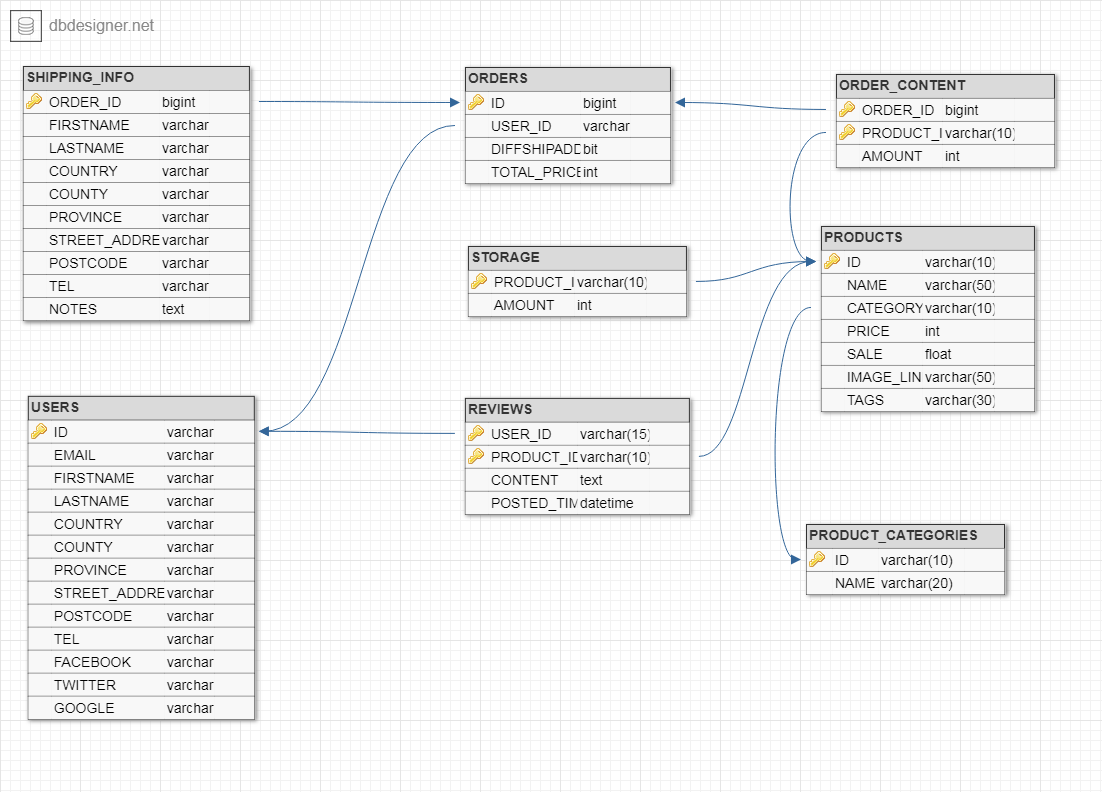
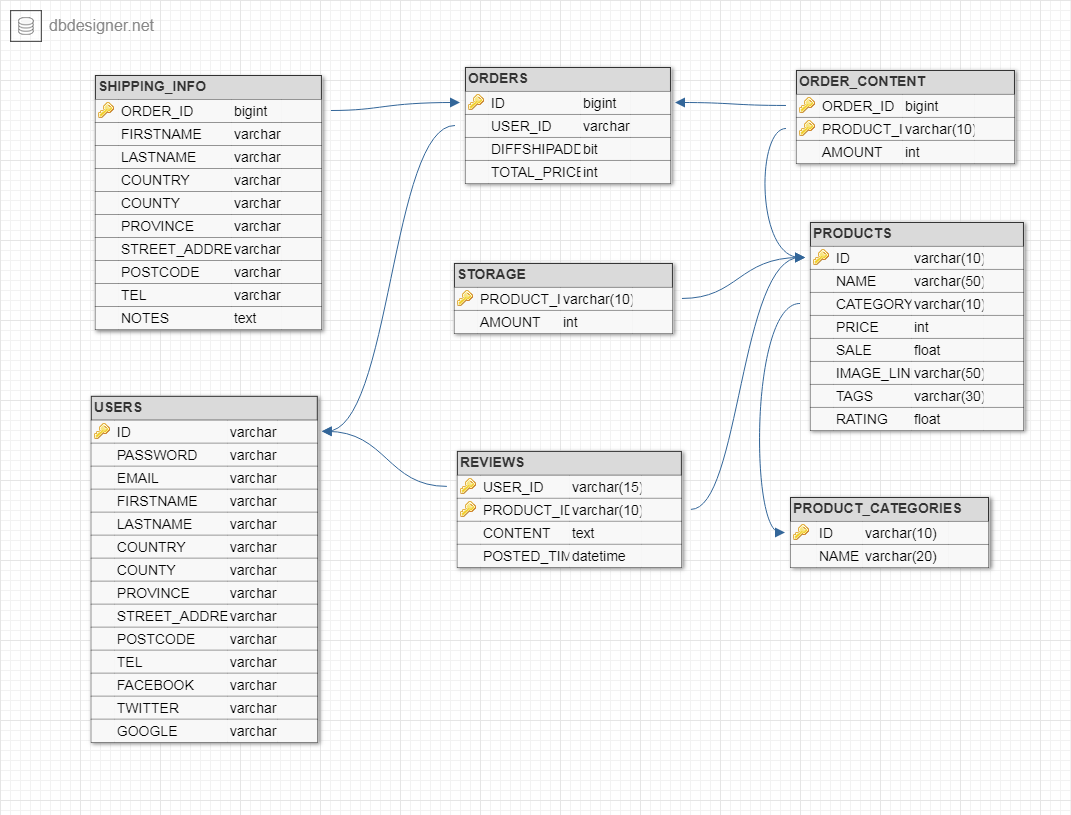
Added Password for Users in DB
Added Password for Users in DB

diff --git a/Database/index.html b/Database/index.html
@@ -1,0 +1,208 @@
+<!DOCTYPE html>
+<html lang="vi">
+
+<head>
+  <meta charset="UTF-8">
+  <meta name="viewport" content="width=device-width, initial-scale=1.0">
+  <meta http-equiv="X-UA-Compatible" content="ie=edge">
+  <title>Oopss!!! Wrong way</title>
+  <style>
+    html,
+    body {
+      height: 100vh;
+    }
+
+    html:before,
+    body:before,
+    html:after,
+    body:after {
+      content: '';
+      background: linear-gradient(#203075, #233581);
+      border-radius: 50%;
+      position: absolute;
+      top: 50%;
+      left: 50%;
+      transform: translate(-50%, -50%);
+    }
+
+    html:before,
+    body:before {
+      background: linear-gradient(#233581, #203075);
+    }
+
+    html {
+      background: linear-gradient(#203075, #233581);
+      overflow: hidden;
+    }
+
+    html:before {
+      height: 105vmax;
+      width: 105vmax;
+      z-index: -4;
+    }
+
+    html:after {
+      height: 80vmax;
+      width: 80vmax;
+      z-index: -3;
+    }
+
+    body {
+      display: flex;
+      justify-content: center;
+      align-items: center;
+      color: #fff;
+      font-family: 'Varela Round', Sans-serif;
+      text-shadow: 0 30px 10px rgba(0, 0, 0, .15);
+    }
+
+    body:before {
+      height: 60vmax;
+      width: 60vmax;
+      z-index: -2;
+    }
+
+    body:after {
+      height: 40vmax;
+      width: 40vmax;
+      z-index: -1;
+    }
+
+    .main {
+      text-align: center;
+      z-index: 5;
+    }
+
+    p {
+      font-size: 18px;
+      margin-top: 0;
+    }
+
+    h1 {
+      font-size: 95px;
+      margin: 0;
+    }
+
+    a {
+      display: block;
+      background: linear-gradient(#ec5dc1, #d61a6f);
+      padding: 12px;
+      border: none;
+      border-radius: 20px;
+      box-shadow: 0 30px 15px rgba(0, 0, 0, .15);
+      outline: none;
+      color: #fff;
+      font: 400 6.4px Nunito, 'Varela Round', Sans-serif;
+      text-transform: uppercase;
+      cursor: pointer;
+      font-size: 15px;
+      font-weight: bold;
+      max-width: 90px;
+      margin: auto;
+      text-decoration: none;
+    }
+
+    .bubble {
+      background: linear-gradient(#ec5dc1, #d61a6f);
+      border-radius: 50%;
+      box-shadow: 0 30px 15px rgba(0, 0, 0, .15);
+      position: absolute;
+    }
+
+    .bubble:before,
+    .bubble:after {
+      content: '';
+      background: linear-gradient(#ec5dc1, #d61a6f);
+      border-radius: 50%;
+      box-shadow: 0 30px 15px rgba(0, 0, 0, .15);
+      position: absolute;
+    }
+
+    .bubble:nth-child(1) {
+      top: 15vh;
+      left: 15vw;
+      height: 22vmin;
+      width: 22vmin;
+    }
+
+    .bubble:nth-child(1):before {
+      width: 13vmin;
+      height: 13vmin;
+      bottom: -25vh;
+      right: -10vmin;
+    }
+
+    .bubble:nth-child(2) {
+      top: 20vh;
+      left: 38vw;
+      height: 10vmin;
+      width: 10vmin;
+    }
+
+    .bubble:nth-child(2):before {
+      width: 5vmin;
+      height: 5vmin;
+      bottom: -10vh;
+      left: -8vmin;
+    }
+
+    .bubble:nth-child(3) {
+      top: 12vh;
+      right: 30vw;
+      height: 13vmin;
+      width: 13vmin;
+    }
+
+    .bubble:nth-child(3):before {
+      width: 3vmin;
+      height: 3vmin;
+      bottom: -15vh;
+      left: -18vmin;
+      z-index: 6;
+    }
+
+    .bubble:nth-child(4) {
+      top: 25vh;
+      right: 18vw;
+      height: 18vmin;
+      width: 18vmin;
+    }
+
+    .bubble:nth-child(4):before {
+      width: 7vmin;
+      height: 7vmin;
+      bottom: -10vmin;
+      left: -15vmin;
+    }
+
+    .bubble:nth-child(5) {
+      top: 60vh;
+      right: 18vw;
+      height: 28vmin;
+      width: 28vmin;
+    }
+
+    .bubble:nth-child(5):before {
+      width: 10vmin;
+      height: 10vmin;
+      bottom: 5vmin;
+      left: -25vmin;
+    }
+  </style>
+</head>
+
+<body>
+  <div class="bubble"></div>
+  <div class="bubble"></div>
+  <div class="bubble"></div>
+  <div class="bubble"></div>
+  <div class="bubble"></div>
+  <div class="main">
+    <h1>404</h1>
+    <p>Có vẻ như bạn đã bị lạc...<br />
+      Quay về trang chủ</p>
+    <a href="../">TRANG CHỦ</a>
+  </div>
+</body>
+
+</html>
